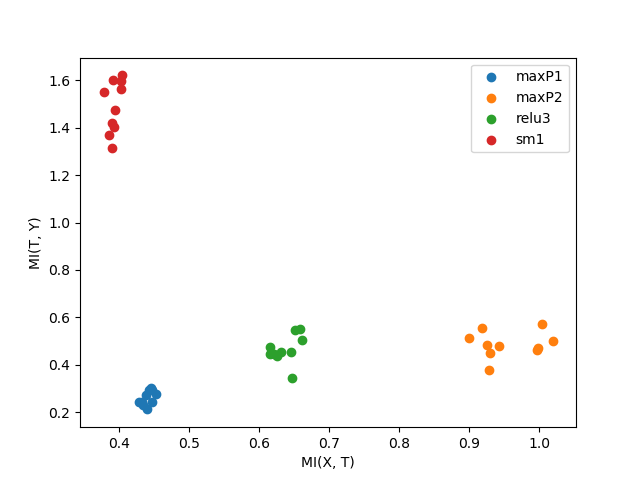
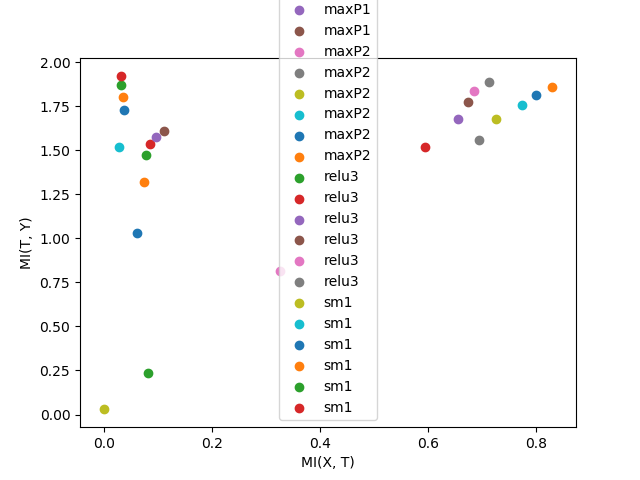
update

diff --git a/TrackMI_separate.py b/TrackMI_separate.py
@@ -79,17 +79,38 @@ class MINE(nn.Module):
 
 
     
+   
     def change_shape(self,x, layer,target=False):
-        #if not target:
+        #if target:
         layer += 2 * torch.randn(layer.shape).to(self.device).detach()
         layer = layer.reshape(int(torch.tensor(layer.shape[0])), int(torch.prod(torch.tensor(layer.shape[1:]))))
         x = x.reshape(int(torch.tensor(x.shape[0])), int(torch.prod(torch.tensor(x.shape[1:]))))
-        if not target:
-            x = nn.ReLU().to(self.device)(nn.Linear(x.shape[1], layer.shape[1]).to(self.device)(x))
+        #if not target:
+            #x = nn.ReLU().to(self.device)(nn.Linear(x.shape[1], layer.shape[1]).to(self.device)(x))
         # else:
         #     layer = layer + (torch.randn(layer.shape).to(self.device).detach() * 1)
         #     layer=nn.ReLU().to(self.device)(nn.Linear(layer.shape[1],x.shape[1]).to(self.device)(layer))
 
+        return x, layer
+
+    def change_shape_convolution(self,x, layer,target):
+        print("orig", x.shape, layer.shape)
+
+        if x.dim() == layer.dim():
+            if x.dim() == 4:
+                x = nn.ReLU().to(self.device)(nn.Conv2d(1, 1, (x.shape[2] - layer.shape[2] + 1, x.shape[2] - layer.shape[2] + 1)).to(self.device)(x))
+
+            else:
+                layer = nn.ReLU().to(self.device)(nn.Linear(layer.shape[1], x.shape[1]).to(self.device)(layer))
+        else:
+            if x.dim() > layer.dim():
+                x = x.reshape(x.shape[0], x.shape[1] * x.shape[2] * x.shape[3])
+                x = nn.ReLU().to(self.device)(nn.Linear(x.shape[1], layer.shape[1]).to(self.device)(x))
+            else:
+                layer = layer.reshape(layer.shape[0], layer.shape[1] * layer.shape[2] * layer.shape[3])
+                layer = nn.ReLU()(nn.Linear(layer.shape[1], x.shape[1]).to(self.device)(layer))
+        layer = layer.reshape(int(torch.tensor(layer.shape[0])), int(torch.prod(torch.tensor(layer.shape[1:]))))
+        x = x.reshape(int(torch.tensor(x.shape[0])), int(torch.prod(torch.tensor(x.shape[1:]))))
         return x, layer
 
     
@@ -389,14 +410,15 @@ def build_information_plane(MI, epochs):
     plt.show()
     plt.savefig('information_plane.png')
 
-def write_results(results, acc, args):
+def write_results(results, args, acc=[]):
     if not os.path.exists('MINE_results'):
         os.makedirs('MINE_results')
     if not os.path.exists('ConvNet_results'):
         os.makedirs('ConvNet_results')
     filename_conv = 'ConvNet_results/conv_acc_%s_%s_%s_%s.pickle' % (args.comment, args.epochs, args.batch_size, str(args.lr).replace('.', ''))
-    with open(filename_conv, 'wb') as handle:
-        pickle.dump(acc, handle, protocol=pickle.HIGHEST_PROTOCOL)
+    if len(acc) > 0:
+        with open(filename_conv, 'wb') as handle:
+            pickle.dump(acc, handle, protocol=pickle.HIGHEST_PROTOCOL)
     filename = 'MINE_results/mine_values_dict_%s_%s_%s_%s.pickle' % (args.comment, args.mine_epochs, args.mine_batch_size, str(args.mine_lr).replace('.', ''))
     with open(filename, 'wb') as handle:
         pickle.dump(results, handle, protocol=pickle.HIGHEST_PROTOCOL)

diff --git a/TrackMI_fine_tune.py b/TrackMI_fine_tune.py
@@ -81,12 +81,12 @@ class MINE(nn.Module):
 
     
     def change_shape(self,x, layer,target=False):
-        #if not target:
+        #if target:
         layer += 2 * torch.randn(layer.shape).to(self.device).detach()
         layer = layer.reshape(int(torch.tensor(layer.shape[0])), int(torch.prod(torch.tensor(layer.shape[1:]))))
         x = x.reshape(int(torch.tensor(x.shape[0])), int(torch.prod(torch.tensor(x.shape[1:]))))
-        if not target:
-            x = nn.ReLU().to(self.device)(nn.Linear(x.shape[1], layer.shape[1]).to(self.device)(x))
+        #if not target:
+            #x = nn.ReLU().to(self.device)(nn.Linear(x.shape[1], layer.shape[1]).to(self.device)(x))
         # else:
         #     layer = layer + (torch.randn(layer.shape).to(self.device).detach() * 1)
         #     layer=nn.ReLU().to(self.device)(nn.Linear(layer.shape[1],x.shape[1]).to(self.device)(layer))
@@ -94,7 +94,25 @@ class MINE(nn.Module):
         return x, layer
 
     
+    def change_shape_convolution(self,x, layer,target):
+        print("orig", x.shape, layer.shape)
 
+        if x.dim() == layer.dim():
+            if x.dim() == 4:
+                x = nn.ReLU().to(self.device)(nn.Conv2d(1, 1, (x.shape[2] - layer.shape[2] + 1, x.shape[2] - layer.shape[2] + 1)).to(self.device)(x))
+
+            else:
+                layer = nn.ReLU().to(self.device)(nn.Linear(layer.shape[1], x.shape[1]).to(self.device)(layer))
+        else:
+            if x.dim() > layer.dim():
+                x = x.reshape(x.shape[0], x.shape[1] * x.shape[2] * x.shape[3])
+                x = nn.ReLU().to(self.device)(nn.Linear(x.shape[1], layer.shape[1]).to(self.device)(x))
+            else:
+                layer = layer.reshape(layer.shape[0], layer.shape[1] * layer.shape[2] * layer.shape[3])
+                layer = nn.ReLU()(nn.Linear(layer.shape[1], x.shape[1]).to(self.device)(layer))
+        layer = layer.reshape(int(torch.tensor(layer.shape[0])), int(torch.prod(torch.tensor(layer.shape[1:]))))
+        x = x.reshape(int(torch.tensor(x.shape[0])), int(torch.prod(torch.tensor(x.shape[1:]))))
+        return x, layer
 
 
 
@@ -357,7 +375,9 @@ class TrackMI(nn.Module):
         if self.args.optim_layers == 'all':
             optim_layers = ['maxP1','maxP2','relu3','sm1']
         else:
-            optim_layers = [self.args.optim_layers]
+            optim_layers = self.args.optim_layers.replace(' ', '').split(',')
+        print(optim_layers)
+        
         convnet_acc = []
         for epoch in range(self.args.epochs):
             self.convN.train(self.train_loader, epoch)

diff --git a/TrackMI_reinit.py b/TrackMI_reinit.py
@@ -81,12 +81,12 @@ class MINE(nn.Module):
 
     
     def change_shape(self,x, layer,target=False):
-        #if not target:
+        #if target:
         layer += 2 * torch.randn(layer.shape).to(self.device).detach()
         layer = layer.reshape(int(torch.tensor(layer.shape[0])), int(torch.prod(torch.tensor(layer.shape[1:]))))
         x = x.reshape(int(torch.tensor(x.shape[0])), int(torch.prod(torch.tensor(x.shape[1:]))))
-        if not target:
-            x = nn.ReLU().to(self.device)(nn.Linear(x.shape[1], layer.shape[1]).to(self.device)(x))
+        #if not target:
+            #x = nn.ReLU().to(self.device)(nn.Linear(x.shape[1], layer.shape[1]).to(self.device)(x))
         # else:
         #     layer = layer + (torch.randn(layer.shape).to(self.device).detach() * 1)
         #     layer=nn.ReLU().to(self.device)(nn.Linear(layer.shape[1],x.shape[1]).to(self.device)(layer))
@@ -94,7 +94,25 @@ class MINE(nn.Module):
         return x, layer
 
     
+    def change_shape_convolution(self,x, layer,target):
+        print("orig", x.shape, layer.shape)
 
+        if x.dim() == layer.dim():
+            if x.dim() == 4:
+                x = nn.ReLU().to(self.device)(nn.Conv2d(1, 1, (x.shape[2] - layer.shape[2] + 1, x.shape[2] - layer.shape[2] + 1)).to(self.device)(x))
+
+            else:
+                layer = nn.ReLU().to(self.device)(nn.Linear(layer.shape[1], x.shape[1]).to(self.device)(layer))
+        else:
+            if x.dim() > layer.dim():
+                x = x.reshape(x.shape[0], x.shape[1] * x.shape[2] * x.shape[3])
+                x = nn.ReLU().to(self.device)(nn.Linear(x.shape[1], layer.shape[1]).to(self.device)(x))
+            else:
+                layer = layer.reshape(layer.shape[0], layer.shape[1] * layer.shape[2] * layer.shape[3])
+                layer = nn.ReLU()(nn.Linear(layer.shape[1], x.shape[1]).to(self.device)(layer))
+        layer = layer.reshape(int(torch.tensor(layer.shape[0])), int(torch.prod(torch.tensor(layer.shape[1:]))))
+        x = x.reshape(int(torch.tensor(x.shape[0])), int(torch.prod(torch.tensor(x.shape[1:]))))
+        return x, layer
 
 
 

diff --git a/build_information_plane.py b/build_information_plane.py
@@ -2,21 +2,28 @@ import pickle
 import argparse
 import numpy as np
 import matplotlib.pyplot as plt
+import matplotlib.cm as cm
 
 
-def build_information_plane(MI):
-    plt.figure(2)
+def build_information_plane(MI, path):
+    plt.figure(2, figsize=(20,10))
     epochs = len(MI['maxP1'])
     epochs = np.arange(1, epochs + 1)
     layers = ['maxP1','maxP2','relu3','sm1']
+    step = 0
     #print(MI)
     for layer in layers:    
-        #for epoch in range(len(MI[layer])):
-        plt.scatter(np.max(MI[layer][:]), np.max(MI[layer+'T'][:]), label=layer)
-    plt.legend()
+        print(step*0.125, (step+1)*0.125, '\n\n')
+        colors = cm.rainbow(np.linspace(step*0.125, (step+1)*0.125, len(MI[layer])))
+        print(len(colors),'\n')
+        print(len(MI[layer]))
+        for epoch in range(len(MI[layer])):
+            plt.scatter(np.max(MI[layer][epoch]), np.max(MI[layer+'T'][epoch]), label=layer, color = colors[epoch])
+        step += 2
+    plt.legend(loc='center left', bbox_to_anchor=(1, 0.5))
     plt.ylabel('MI(T, Y)')
     plt.xlabel('MI(X, T)')
-    plt.savefig('information_plane.png')
+    plt.savefig(path+'_information_plane.png')
     plt.show()
     
 
@@ -29,7 +36,10 @@ def main():
     args = parser.parse_args()
     pickle_in = open(args.import_path+".pickle","rb")
     mi_values = pickle.load(pickle_in)
-    build_information_plane(mi_values)
+    for key in mi_values.keys():
+        print(len(mi_values[key]), len(mi_values[key][0]))
+    #print(mi_values['sm1T'])
+    build_information_plane(mi_values, args.import_path)
 if __name__ == '__main__':
     # freeze_support() here if program needs to be frozen
     main()

diff --git a/main_scripts/TrackMI_separate.py b/main_scripts/TrackMI_separate.py
@@ -389,14 +389,15 @@ def build_information_plane(MI, epochs):
     plt.show()
     plt.savefig('information_plane.png')
 
-def write_results(results, acc, args):
+def write_results(results, args, acc=[]):
     if not os.path.exists('MINE_results'):
         os.makedirs('MINE_results')
     if not os.path.exists('ConvNet_results'):
         os.makedirs('ConvNet_results')
     filename_conv = 'ConvNet_results/conv_acc_%s_%s_%s_%s.pickle' % (args.comment, args.epochs, args.batch_size, str(args.lr).replace('.', ''))
-    with open(filename_conv, 'wb') as handle:
-        pickle.dump(acc, handle, protocol=pickle.HIGHEST_PROTOCOL)
+    if len(acc) > 0:
+        with open(filename_conv, 'wb') as handle:
+            pickle.dump(acc, handle, protocol=pickle.HIGHEST_PROTOCOL)
     filename = 'MINE_results/mine_values_dict_%s_%s_%s_%s.pickle' % (args.comment, args.mine_epochs, args.mine_batch_size, str(args.mine_lr).replace('.', ''))
     with open(filename, 'wb') as handle:
         pickle.dump(results, handle, protocol=pickle.HIGHEST_PROTOCOL)

diff --git a/plot_pickle.py b/plot_pickle.py
@@ -9,12 +9,18 @@ def main():
                         help='none')
     args = parser.parse_args()
     pickle_in = open(args.import_path+".pickle","rb")
-    example_dict = pickle.load(pickle_in)
-    epochs = np.arange(1, 50 + 1)
+    mi_values = pickle.load(pickle_in)
+    epochs = np.arange(1, 6 + 1)
+    values = {}
+    for key in mi_values.keys():
+        values[key] = np.array(mi_values[key])#.reshape(180)
+        print(values[key].shape)
     plt.figure(1)
-    for i in example_dict.keys():
+    for key in mi_values.keys():
+        print(len(mi_values[key]), len(mi_values[key][1]))
+    for i in mi_values.keys():
         #print(i, example_dict[i])
-        plt.plot(epochs, example_dict[i], label=i)
+        plt.plot(epochs, np.max(values[i], axis=1), label=i)
     plt.legend()
     plt.ylabel('MI(x, L_i + eps)')
     plt.xlabel('MINE epochs')
